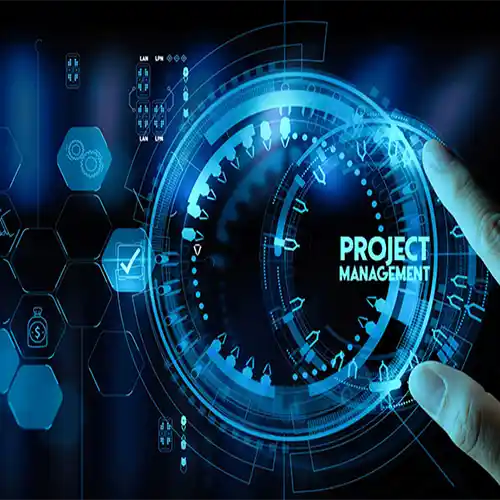
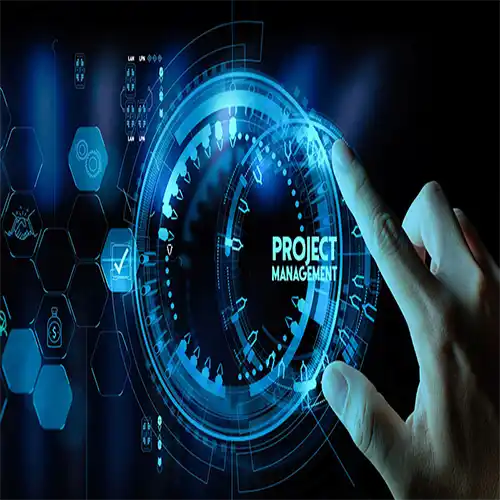
new

diff --git a/index.html b/index.html
@@ -28,8 +28,8 @@
         <div class="header-content">
             <div class="left-header">
                 
-                <div class="image" id="image">
-                    <img src="img/agile.webp" id="main-image" alt="Jarno Kiimala | Strategic Project Management - Successful Projects and Initiatives">
+                <div class="image" id="image"> 
+                    <img src="img/projectManagement.webp" id="main-image" alt="Jarno Kiimala | Strategic Project Management - Successful Projects and Initiatives">
                 </div>
             </div>
             <div class="right-header">
